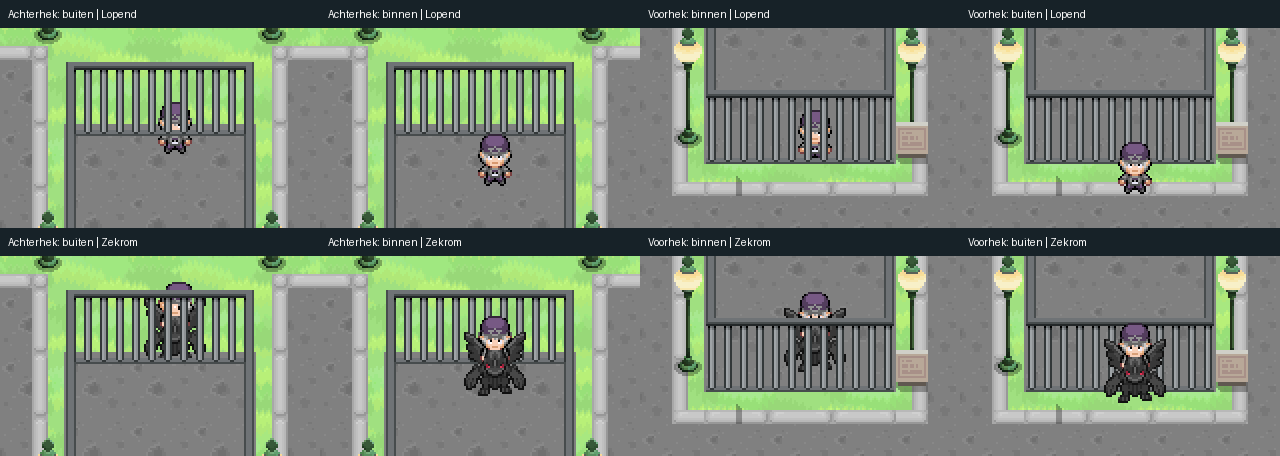
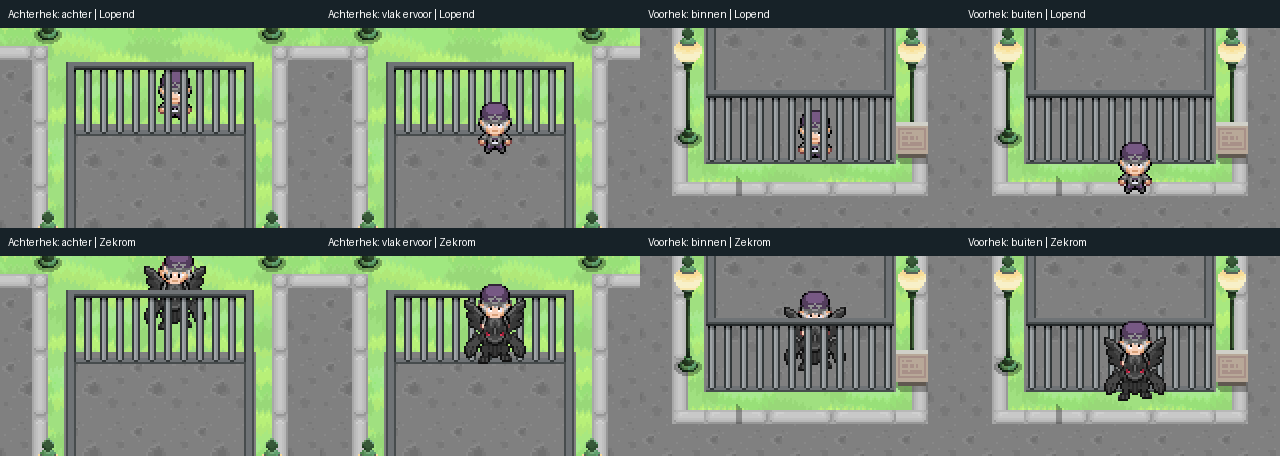
Anchor Viridian rear jail wall at its visible ground contact

diff --git a/docs/viridian-jail-depth.md b/docs/viridian-jail-depth.md
@@ -11,8 +11,9 @@ its vertical rails do not join the two wall boundaries. The visual importer
 retains this metadata; world normalization uses it without reserved layer names.
 Existing layers without the hint retain their previous sorting behavior.
 
-The rear wall sorts at world Y 1248 and the front wall/posts at Y 1440 when the
-map is at the origin. Side rows sort at their individual bottom edges. These
+The rear wall sorts at world Y 1228 and the front wall/posts at Y 1440 when the
+map is at the origin. `JailBack` carries `pao_depth_offset_y=-20`: its corner
+continuations extend 20 pixels below the horizontal bar's ground contact. Side rows sort at their individual bottom edges. These
 are visual anchors, not prescribed blocked/open tiles. No gameplay scene,
 Collision layer, movement, mount asset, backend, or release configuration changed.
 
@@ -28,7 +29,7 @@ The artist directory is not a Git repository. The exact source edit is retained
 in [viridian-jail-depth-source.patch](viridian-jail-depth-source.patch).
 
[3 lines of base64/hex data omitted]
 
 52 visual tiles moved between layers; none were added, deleted, or repositioned.
 The full-map native Tiled renders before and after have identical pixels.
@@ -38,8 +39,8 @@ are not present in the artist TMX, so rebuilding the atlas removed those native
 animations. The final generated scene instead uses
 `tools/update_viridian_jail_layers.gd` to apply precisely the same layer split to
 the existing imported tile identities. All original atlas and TileSet files are
-unchanged. The tool is a one-time migration for the pre-split visual and is a
-no-op once the layers exist. Future full imports still need to preserve the
+unchanged. The tool migrates the pre-split visual or updates an existing split with its
+rear ground-contact offset. It is a no-op once both are present. Future full imports still need to preserve the
 project's native animation additions; this task does not rebuild that pipeline.
 
 From `game/`, after applying the paired TMX edit:
@@ -47,6 +48,27 @@ From `game/`, after applying the paired TMX edit:
 ```sh
 ops/worktrees/slot-env slot-b -- godot --headless --path .worktrees/slot-b/frontend --script res://tools/update_viridian_jail_layers.gd
 ```
+
+## Ground-contact follow-up
+
+The initial 192-case test incorrectly labelled Y=1232 as behind the rear wall.
+The horizontal bar actually ends at local Y=76 (world Y=1228); the corner rails
+continue to local Y=96. Consequently, a character on the nearest southern tile
+was still covered by the full wall. The initial test's passing result did not
+validate that boundary, and the user's screenshots exposed the incorrect label.
+
+The corrected test labels Y=1200 as behind, Y=1232 as immediately in front, and
+also retains the farther front sample at Y=1264. Before the correction, exactly
+48 of 240 native render cases fail, all at Y=1232. With the authored -20px offset,
+all 240 pass. The generic offset is transformed with the layer, with synthetic
+checks for translation and scale. It changes sorting only; every tile, texture,
+animation and collision layer is preserved.
+
+The pre-offset source backup is in
+`artist/backups/viridian-jail-boundary-20261023/Viridian City.tmx`.
+The native Tiled render is unchanged by this metadata-only correction.
+
+![Nearest front position before and after correction](evidence/viridian-jail-boundary.png)
 
 ## Verification
 
@@ -64,8 +86,9 @@ Passed:
   all 9,917 visual tile occurrences retain their pixels and animation timelines;
   1,216 unique frames per version compared, with compact/lossless atlas checks.
 - Native `viridian_jail_render_check` (OpenGL compatibility, real display):
-  192 comparisons covering local/remote actors, walking/Zekrom/Rayquaza,
-  four directions, walk frames 0 and 2, and both sides of both walls. Hover is
+  240 comparisons covering local/remote actors, walking/Zekrom/Rayquaza,
+  four directions, walk frames 0 and 2, both sides of both walls, and the
+  nearest tile in front of the rear wall. Hover is
   sampled for mounts. Each wall crop matches independently forced correct
   ordering and differs from deliberately reversed ordering, proving visible
   actor/wall overlap in every case. The test disables actor cameras and pauses

diff --git a/addons/tiled_tmx_importer/README.md b/addons/tiled_tmx_importer/README.md
@@ -11,6 +11,7 @@ Scope:
 - tile layer property `pao_z_index=<number>` sets an explicit Godot `z_index`
 - tile layer property `pao_depth_sort=groups` opts a complete visual assembly into runtime ground-depth sorting, independently of its layer name; connected cells share their bottom edge as depth
 - `pao_depth_sort=rows` sorts each occupied row separately, for long side rails; split front/rear walls into separate layers so their boundaries remain independent
+- optional `pao_depth_offset_y=<number>` on a depth-sorted layer adjusts that boundary in local pixels when the tile bounds extend below the object's ground contact; it does not move artwork or collision
 - external TSX tilesets are parsed
 - static image collections, including per-tile source rectangles, preserve their exact pixels and bottom-left alignment when they fit within a map cell
 - CSV layer data is supported
